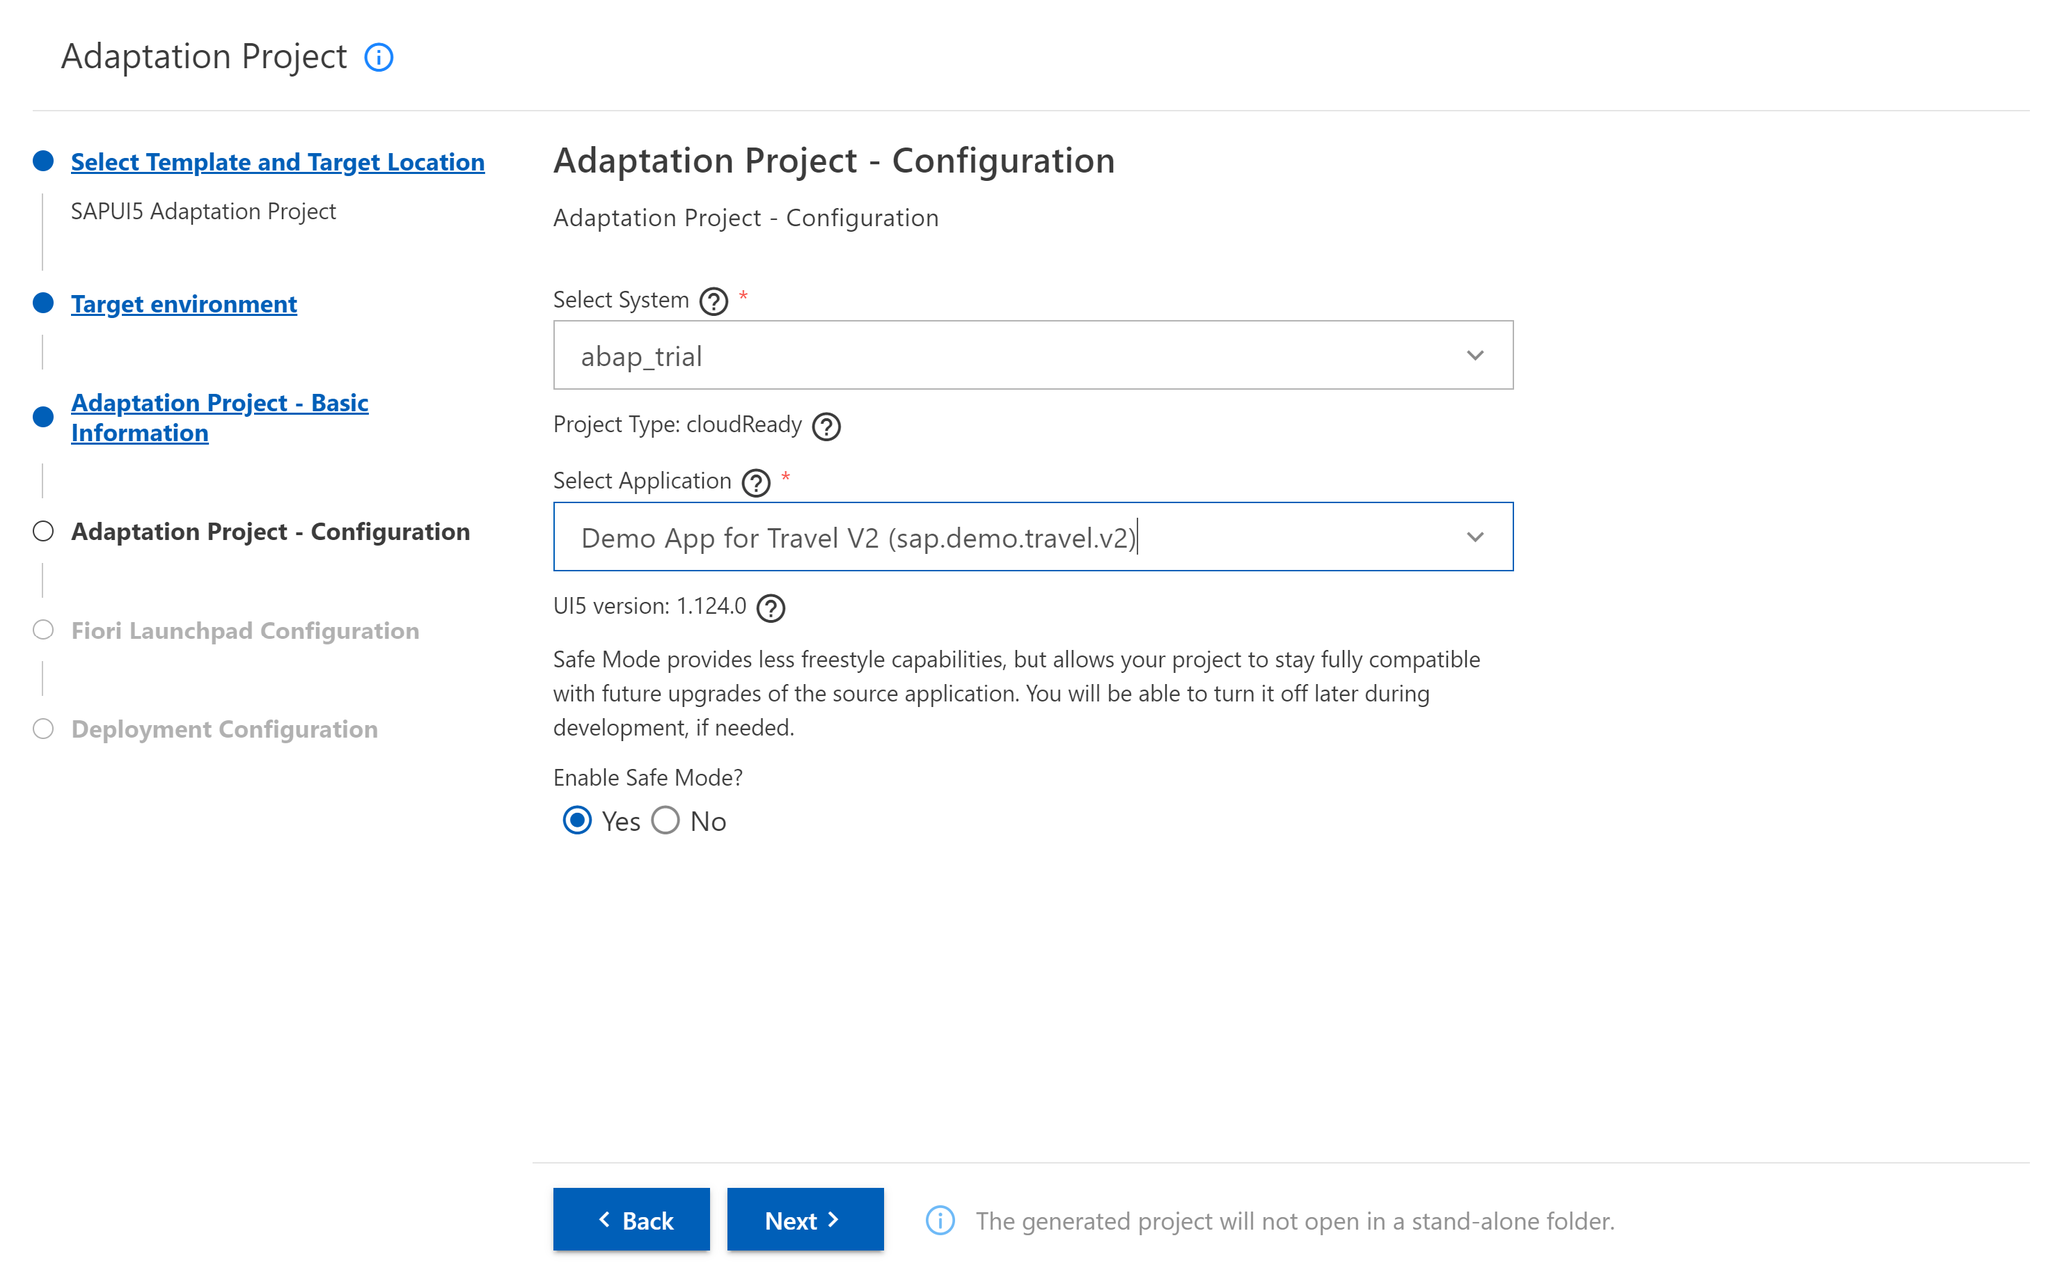
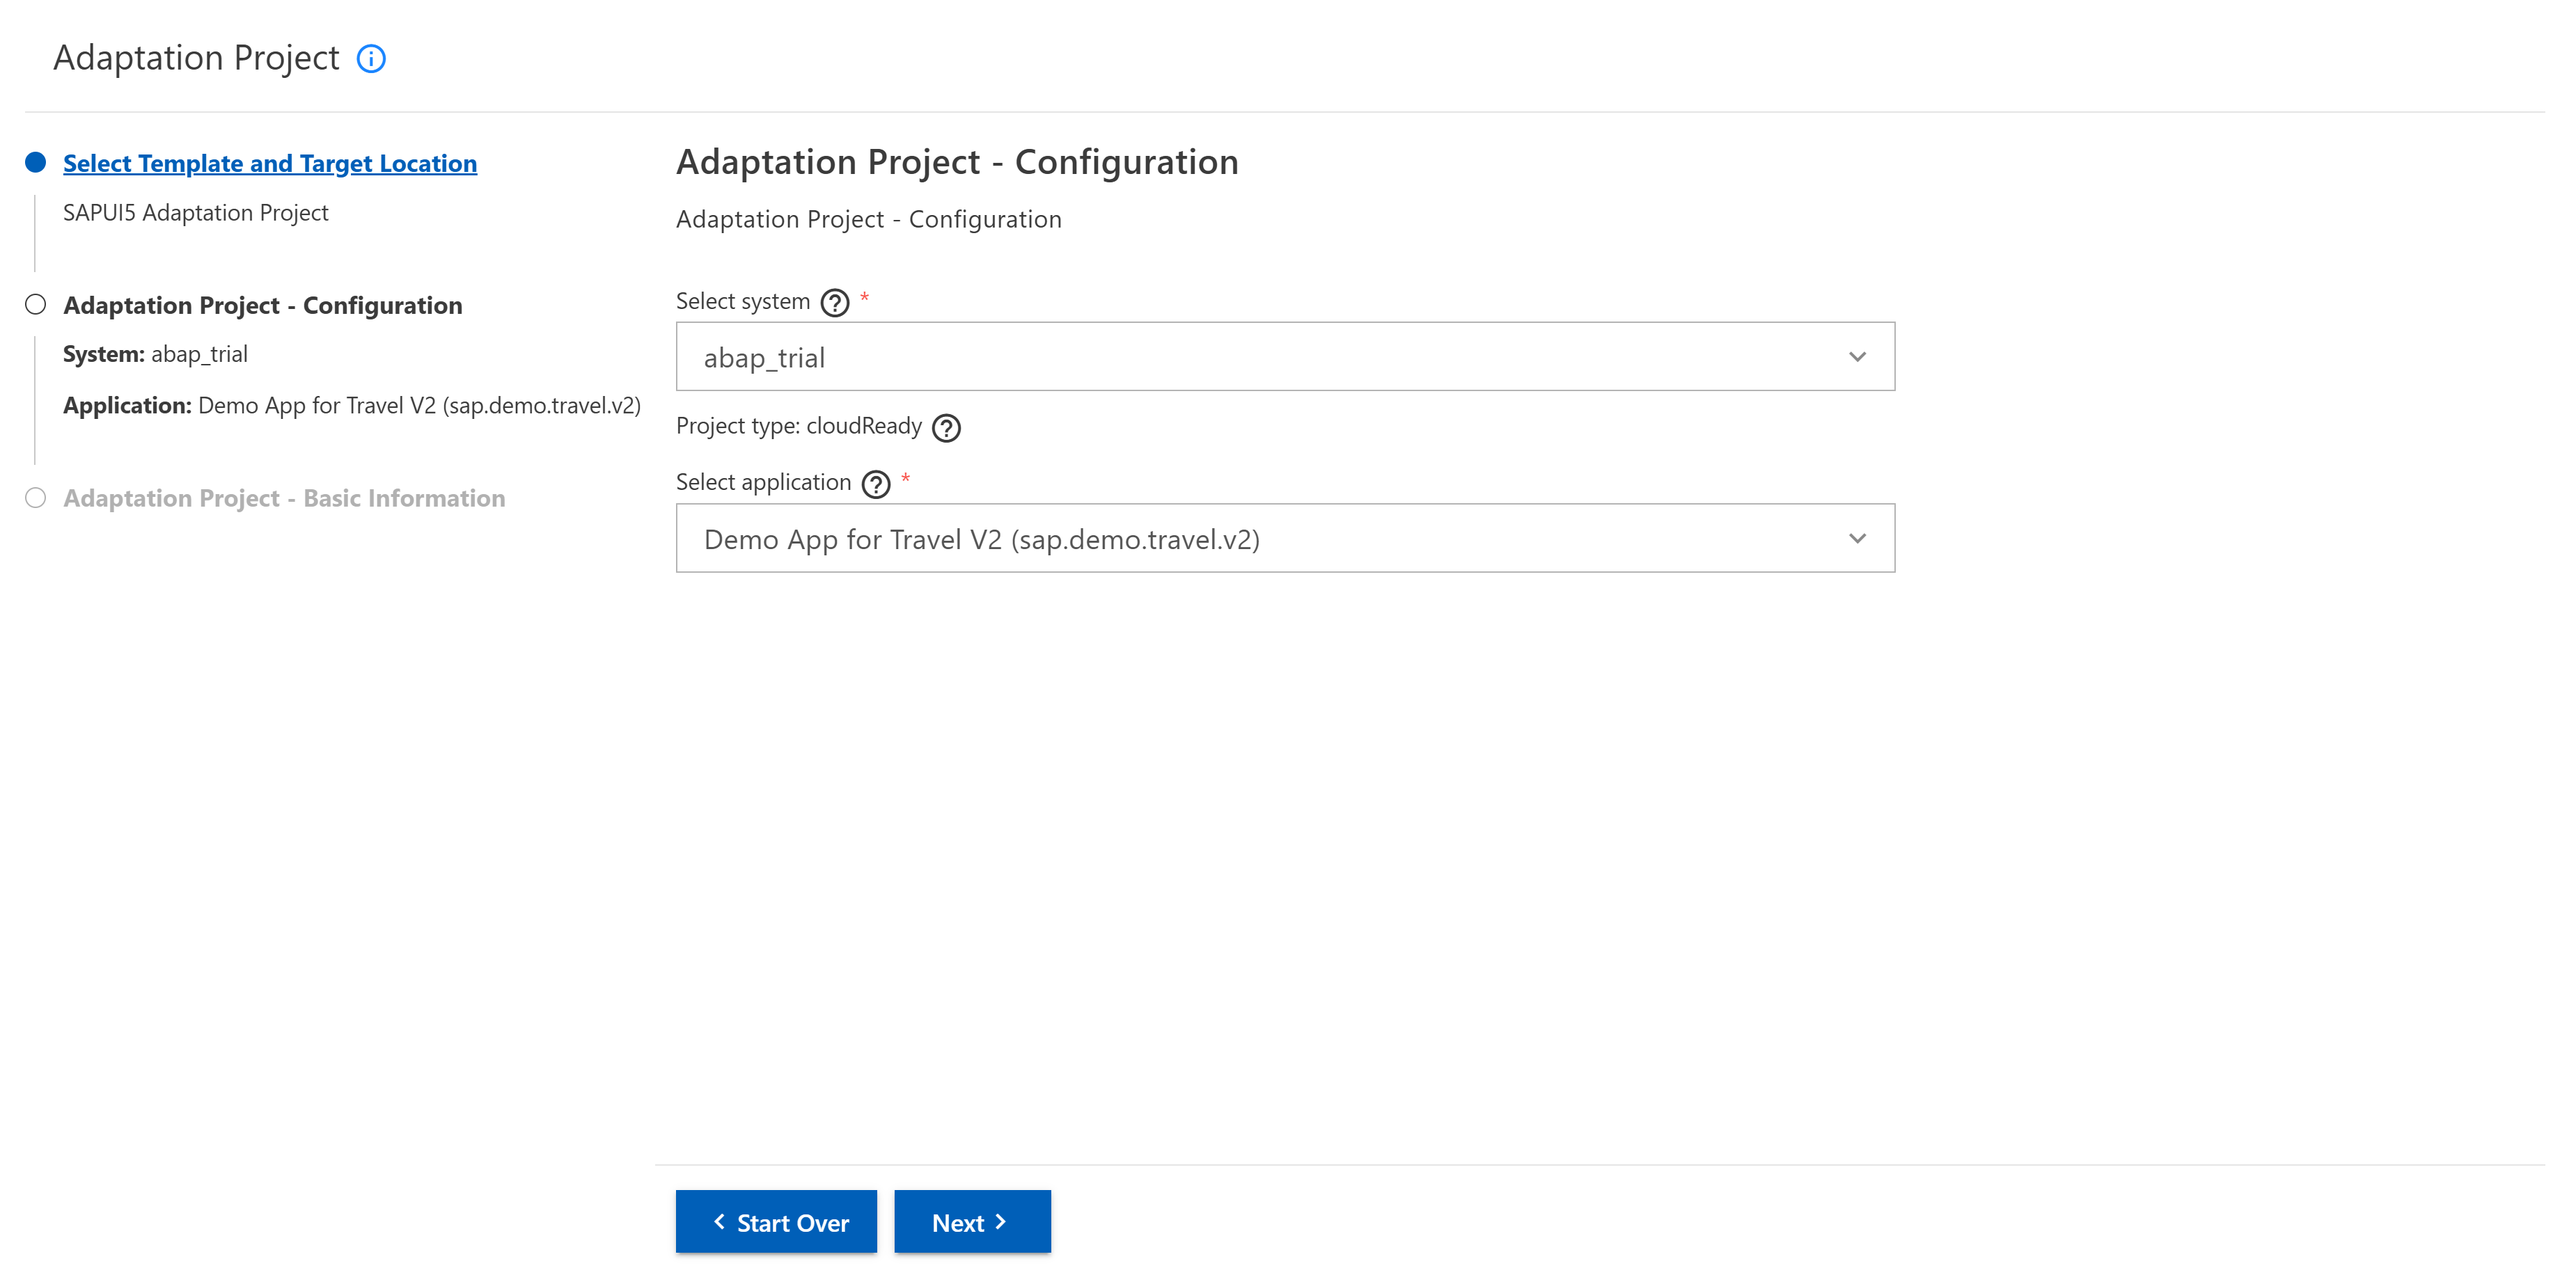
update tutorial

diff --git a/chapters/2.0-get-fam-with-gen/README.md b/chapters/2.0-get-fam-with-gen/README.md
@@ -11,10 +11,14 @@ By the end of this chapter you will have generated Adaptation Project which will
 ## Create Apdaptation Project
 After the wizard is started there are several steps that needs to be completed in order to create Adaptation Project.
 
-### 1. Target Environment
+### 1. Configuration
 
-   1. Select ABAP as the target environment in which you want to create your new application variant and choose Next.
-<img src="img/environment.png" width="1000" />
+   1. Enter the Configuration information required for your adaptation project:
+         - From the Select System dropdown list select the system you want to use.
+         - From the dropdown list in the Select Application field, choose "Demo App for Travel V2 (sap.demo.travel.v2)" the SAP Fiori application that will be as the basis for your application variant.
+         - To enhance the application with additional capabilities and logic, you need to select the No option in answer to Enable Safe Mode?
+   2. Press the Next button.
+<img src="img/configuration.png" width="1000" />
 
 ### 2. Basic Information
 
